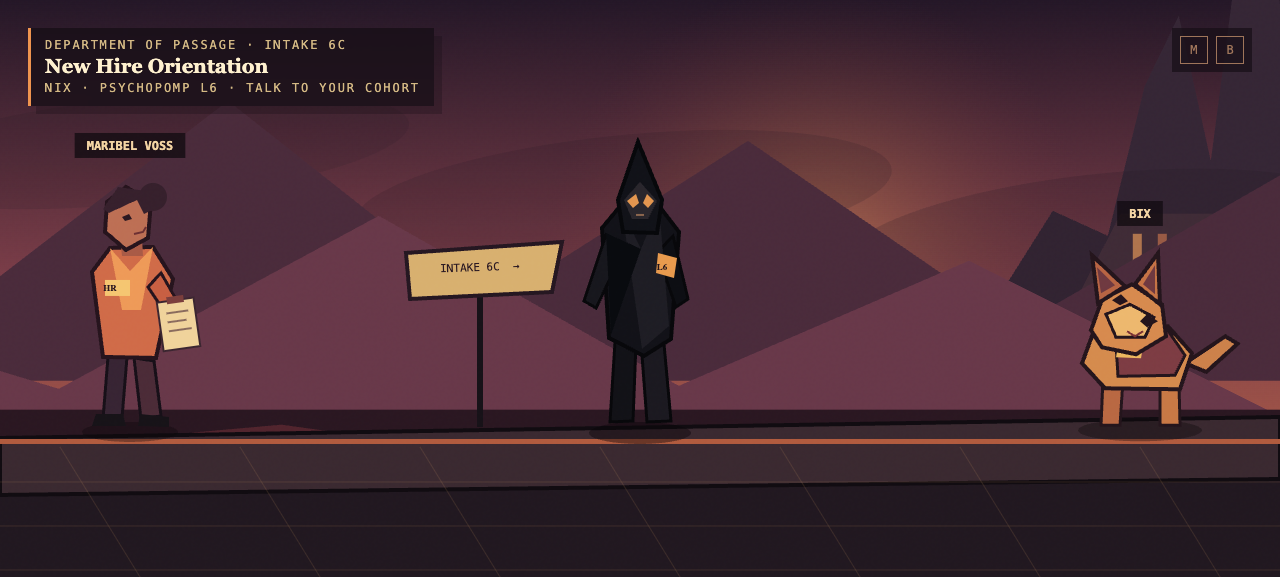
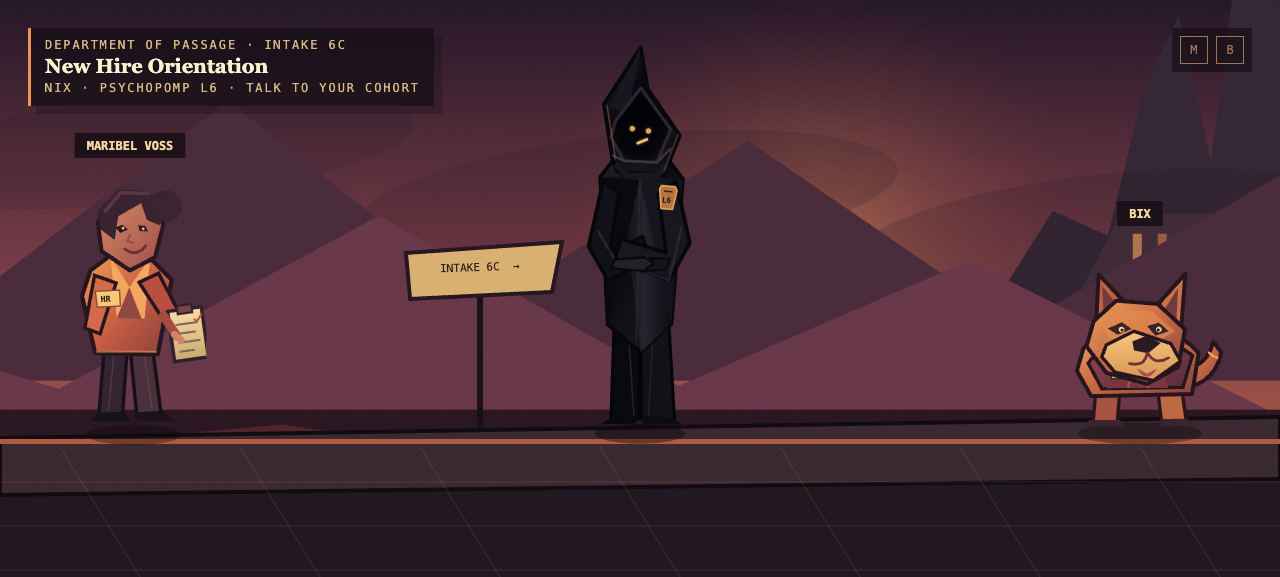
psychopomp: Replace character art with SVG sprites

diff --git a/psychopomp/src/main.ts b/psychopomp/src/main.ts
@@ -1,4 +1,7 @@
 import "./styles.css";
+import bixSpriteUrl from "./assets/bix.svg";
+import maribelSpriteUrl from "./assets/maribel-voss.svg";
+import nixSpriteUrl from "./assets/nix-hollow-cowl.svg";
 
 type NpcId = "maribel" | "bix";
 type DialogueLine = { speaker: string; text: string; option: string };
@@ -56,6 +59,12 @@ const TALK_RANGE = 170;
 const player = { x: 1080, facing: 1, walking: false };
 const keys = new Set<string>();
 const met = new Set<NpcId>();
+const maribelSprite = new Image();
+maribelSprite.src = maribelSpriteUrl;
+const bixSprite = new Image();
+bixSprite.src = bixSpriteUrl;
+const nixSprite = new Image();
+nixSprite.src = nixSpriteUrl;
 const npcs: Npc[] = [
   {
     id: "maribel",
@@ -259,96 +268,57 @@ function drawSign(x: number, y: number) {
 
 function drawClipboardHuman(x: number, y: number, t: number) {
   const bob = Math.sin(t * 2.2) * 2;
+  const spriteWidth = 153;
+  const spriteHeight = 250;
   ctx.save();
   ctx.translate(x, y + bob);
-  // shadow
   ctx.fillStyle = "rgba(10,6,9,.35)";
-  ctx.beginPath(); ctx.ellipse(0, 6, 48, 10, 0, 0, Math.PI * 2); ctx.fill();
-  // legs and shoes
-  poly([[-22, -69], [-3, -69], [-8, -8], [-27, -7]], "#372433", "#171018", 3);
-  poly([[4, -68], [24, -65], [31, -10], [11, -7]], "#4b2b37", "#171018", 3);
-  poly([[-34, -12], [-7, -12], [-4, 0], [-38, 0]], "#171318");
-  poly([[10, -12], [39, -9], [39, 1], [8, 0]], "#171318");
-  // jacket
-  poly([[-38, -154], [-20, -178], [23, -179], [43, -147], [26, -68], [-27, -69]], "#d06b48", "#26141d", 4);
-  poly([[-20, -178], [0, -155], [23, -179], [11, -116], [-8, -116]], "#ee9a58");
-  // arm + clipboard
-  poly([[31, -153], [55, -111], [42, -103], [18, -139]], "#c85f42", "#26141d", 3);
-  ctx.save(); ctx.translate(48, -102); ctx.rotate(-.14);
-  ctx.fillStyle = "#f0d39b"; ctx.fillRect(-18, -24, 37, 49);
-  ctx.strokeStyle = "#3b2530"; ctx.lineWidth = 2; ctx.strokeRect(-18, -24, 37, 49);
-  ctx.fillStyle = "#7b3e3c"; ctx.fillRect(-8, -28, 17, 7);
-  line([[-10, -12], [12, -12]], "#8a6b5d", 2); line([[-10, -3], [9, -3]], "#8a6b5d", 2); line([[-10, 6], [13, 6]], "#8a6b5d", 2);
-  ctx.restore();
-  // neck/head/hair
-  poly([[-10, -188], [12, -188], [13, -170], [-8, -170]], "#a95a46");
-  poly([[-23, -224], [-4, -239], [21, -224], [18, -188], [-4, -176], [-25, -194]], "#bd6f54", "#26141d", 4);
-  poly([[-27, -217], [-12, -239], [15, -235], [27, -218], [14, -212], [7, -226], [-21, -213]], "#36202c");
-  ctx.fillStyle = "#36202c"; ctx.beginPath(); ctx.arc(23, -229, 14, 0, Math.PI * 2); ctx.fill();
-  // features
-  poly([[-8, -209], [-1, -212], [2, -207], [-5, -205]], "#2b1821");
-  line([[4, -192], [13, -194], [16, -199]], "#6c2f32", 2);
-  // badge
-  ctx.fillStyle = "#f5c671"; ctx.fillRect(-25, -146, 25, 16);
-  ctx.fillStyle = "#2b1720"; ctx.font = "600 9px 'DM Mono'"; ctx.fillText("HR", -20, -135);
+  ctx.beginPath();
+  ctx.ellipse(4, 6, 48, 10, 0, 0, Math.PI * 2);
+  ctx.fill();
+  if (maribelSprite.complete && maribelSprite.naturalWidth > 0) {
+    ctx.drawImage(maribelSprite, -spriteWidth / 2, -spriteHeight, spriteWidth, spriteHeight);
+  }
   ctx.restore();
 }
 
 function drawDog(x: number, y: number, t: number) {
   const bob = Math.sin(t * 4) * 2;
-  ctx.save(); ctx.translate(x, y + bob);
-  ctx.fillStyle = "rgba(10,6,9,.35)"; ctx.beginPath(); ctx.ellipse(0, 5, 62, 11, 0, 0, Math.PI * 2); ctx.fill();
-  // wagging tail
-  const wag = Math.sin(t * 8) * .38;
-  ctx.save(); ctx.translate(45, -62); ctx.rotate(wag);
-  poly([[0, 0], [29, -39], [43, -36], [23, 1]], "#cc814a", "#24151c", 4); ctx.restore();
-  // legs
-  poly([[-37, -47], [-17, -46], [-20, 0], [-39, 0]], "#b96842", "#24151c", 3);
-  poly([[20, -47], [39, -43], [40, 0], [20, 0]], "#c87845", "#24151c", 3);
-  // body and vest
-  poly([[-47, -92], [28, -99], [52, -72], [40, -36], [-35, -37], [-58, -62]], "#d58b4d", "#24151c", 4);
-  poly([[-25, -97], [25, -99], [45, -70], [35, -50], [-22, -49]], "#7d3c43", "#24151c", 3);
-  poly([[-20, -90], [5, -90], [1, -67], [-24, -68]], "#edb85f");
-  ctx.fillStyle = "#30202a"; ctx.font = "600 10px 'DM Mono'"; ctx.fillText("L2", -17, -75);
-  // neck/head
-  poly([[-49, -95], [-38, -126], [-8, -141], [22, -121], [26, -89], [-4, -71], [-38, -78]], "#d78a4e", "#24151c", 4);
-  // ears
-  poly([[-42, -122], [-48, -170], [-15, -139]], "#b86443", "#24151c", 4);
-  poly([[-5, -141], [18, -172], [20, -121]], "#c67345", "#24151c", 4);
-  poly([[-39, -132], [-43, -158], [-25, -140]], "#6f3940");
-  poly([[3, -141], [15, -160], [15, -131]], "#6f3940");
-  // muzzle and face
-  poly([[-34, -111], [-10, -121], [14, -108], [5, -88], [-24, -88]], "#edb86e", "#24151c", 3);
-  poly([[7, -111], [18, -104], [7, -98], [0, -104]], "#24151c");
-  poly([[-28, -125], [-19, -131], [-12, -124], [-20, -120]], "#24151c");
-  line([[-13, -94], [-5, -89], [3, -94]], "#7b3335", 2);
+  const happyTilt = Math.sin(t * 2.6) * .012;
+  const spriteWidth = 170;
+  const spriteHeight = 159;
+  ctx.save();
+  ctx.translate(x, y + bob);
+  ctx.fillStyle = "rgba(10,6,9,.35)";
+  ctx.beginPath();
+  ctx.ellipse(0, 5, 62, 11, 0, 0, Math.PI * 2);
+  ctx.fill();
+  ctx.rotate(happyTilt);
+  if (bixSprite.complete && bixSprite.naturalWidth > 0) {
+    ctx.drawImage(bixSprite, -spriteWidth / 2, -spriteHeight, spriteWidth, spriteHeight);
+  }
   ctx.restore();
 }
 
 function drawNix(x: number, y: number, t: number) {
-  const stride = player.walking ? Math.sin(t * 10) : 0;
-  const bob = player.walking ? Math.abs(Math.sin(t * 10)) * -3 : Math.sin(t * 1.6) * 1.2;
-  ctx.save(); ctx.translate(x, y + bob); ctx.scale(player.facing, 1);
-  ctx.fillStyle = "rgba(8,4,8,.42)"; ctx.beginPath(); ctx.ellipse(0, 7, 51, 11, 0, 0, Math.PI * 2); ctx.fill();
-  // long, deliberate legs
-  poly([[-25, -84], [-4, -84], [-7 + stride * 8, -5], [-30 + stride * 9, -4]], "#121217", "#08080b", 3);
-  poly([[1, -84], [24, -82], [31 - stride * 8, -5], [7 - stride * 9, -4]], "#1b1920", "#08080b", 3);
-  // angular coat/body
-  poly([[-38, -198], [-18, -222], [19, -220], [39, -194], [31, -87], [4, -70], [-31, -88]], "#121218", "#08080b", 4);
-  poly([[-34, -191], [-56, -125], [-44, -118], [-17, -174]], "#17171d", "#08080b", 3);
-  poly([[33, -190], [48, -127], [36, -119], [17, -173]], "#0d0e13", "#08080b", 3);
-  // coat facets
-  poly([[-18, -216], [1, -177], [19, -220], [29, -100], [2, -77]], "#1e1d24");
-  poly([[-34, -193], [1, -177], [-29, -91]], "#090b0f");
-  // pointed head and geometric mask
-  poly([[-22, -226], [-2, -284], [22, -226], [17, -193], [-17, -194]], "#111218", "#07080b", 4);
-  poly([[-16, -226], [0, -244], [17, -225], [8, -207], [-8, -207]], "#29262c");
-  poly([[-13, -225], [-4, -232], [-1, -223], [-7, -218]], "#e3964f");
-  poly([[3, -223], [7, -232], [14, -225], [8, -218]], "#e3964f");
-  line([[-4, -211], [4, -211]], "#8b664e", 2);
-  // L6 badge as one warm interruption
-  poly([[18, -173], [37, -168], [34, -148], [16, -153]], "#e89a4d");
-  ctx.save(); ctx.translate(22, -156); ctx.scale(player.facing, 1); ctx.fillStyle = "#20131b"; ctx.font = "600 9px 'DM Mono'"; ctx.fillText("L6", 0, 0); ctx.restore();
+  const walkCycle = player.walking ? Math.sin(t * 10) : 0;
+  const bob = player.walking ? Math.abs(walkCycle) * -4 : Math.sin(t * 1.6) * 1.2;
+  const lean = player.walking ? walkCycle * .012 : 0;
+  const spriteWidth = 138;
+  const spriteHeight = 383;
+
+  ctx.save();
+  ctx.translate(x, y + bob);
+  ctx.fillStyle = "rgba(8,4,8,.42)";
+  ctx.beginPath();
+  ctx.ellipse(0, 7, 45, 10, 0, 0, Math.PI * 2);
+  ctx.fill();
+
+  ctx.scale(player.facing, 1);
+  ctx.rotate(lean);
+  if (nixSprite.complete && nixSprite.naturalWidth > 0) {
+    ctx.drawImage(nixSprite, -spriteWidth / 2, -spriteHeight, spriteWidth, spriteHeight);
+  }
   ctx.restore();
 }
 
